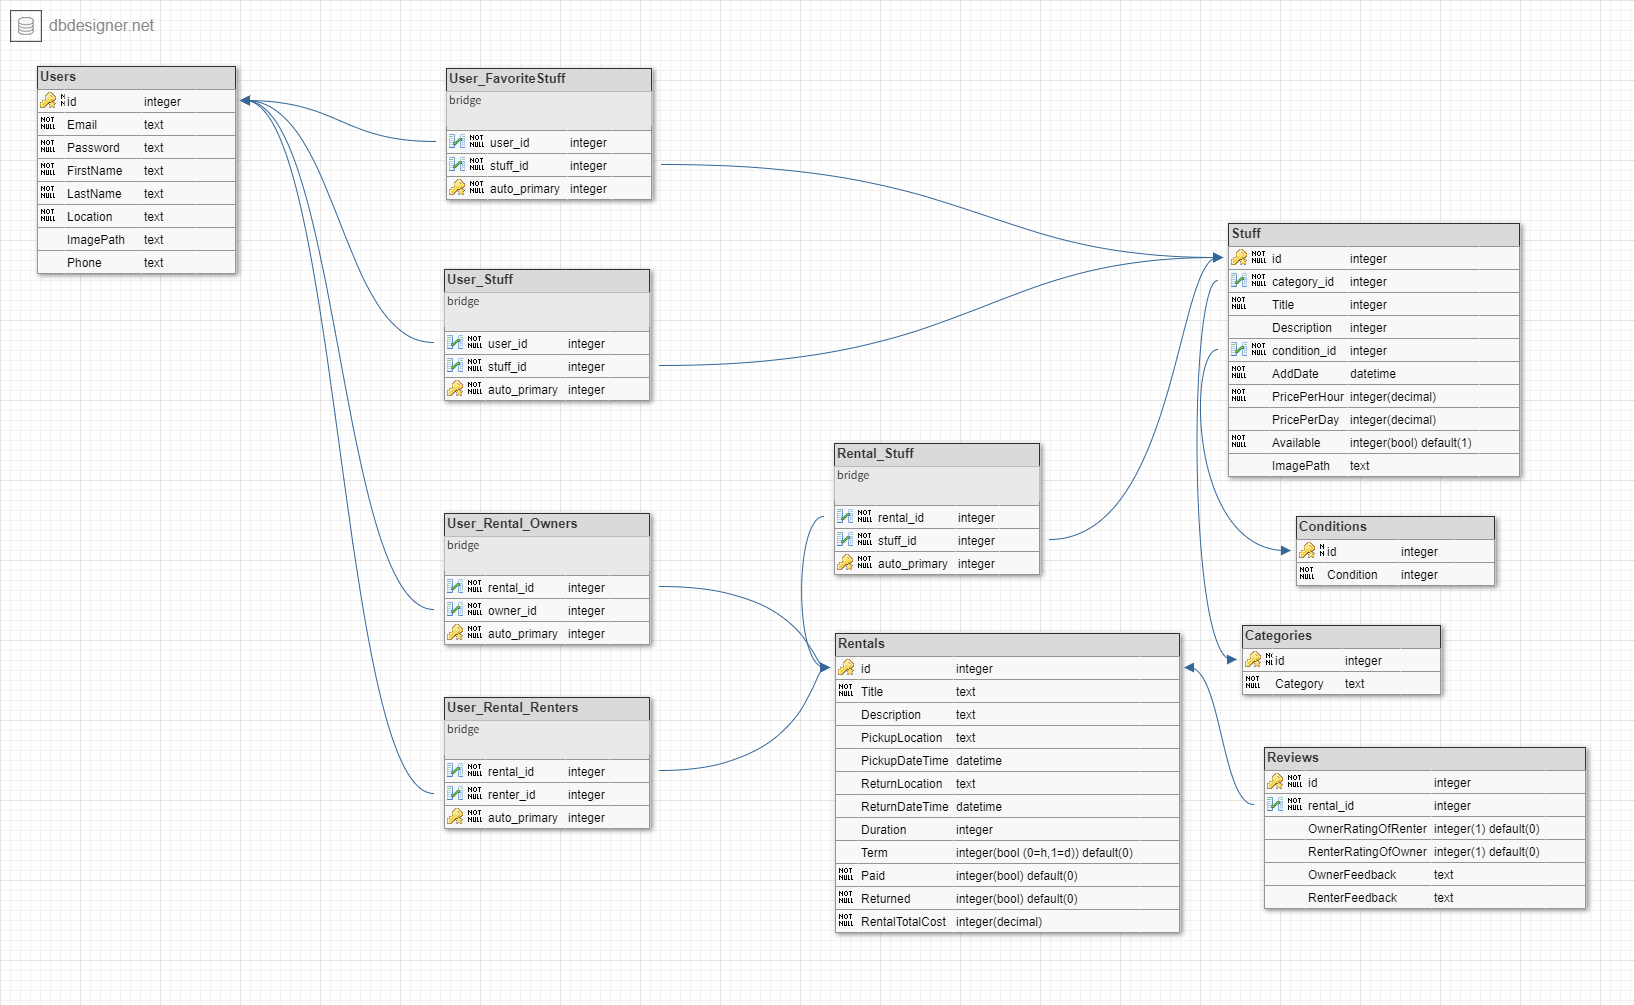
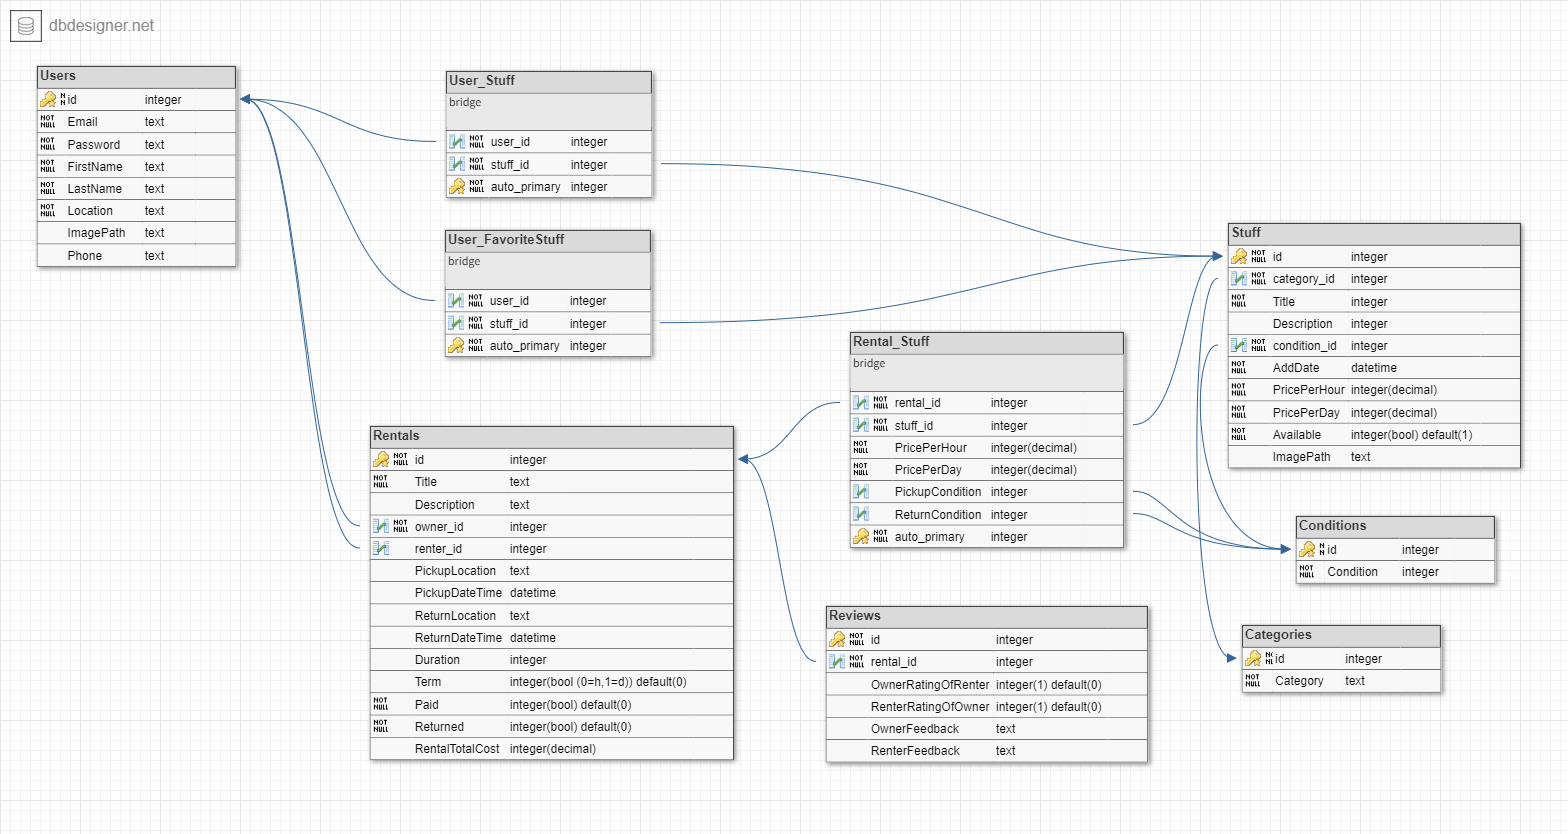
Update DB Design / Schema.

diff --git a/data/migrations/20200226204745_umts.js b/data/migrations/20200226204745_umts.js
@@ -56,6 +56,20 @@ exports.up = function(knex) {
       tbl.text('Title')
         .notNullable();
       tbl.text('Description');
+      tbl.integer('owner_id')
+        .notNullable()
+        .unsigned()
+        .references('Users.id')
+        // .onUpdate('CASCADE')
+        // .onDelete('CASCADE')
+        ;
+      tbl.integer('renter_id')
+        .notNullable()
+        .unsigned()
+        .references('Users.id')
+        // .onUpdate('CASCADE')
+        // .onDelete('CASCADE')
+        ;
       tbl.text('PickupLocation');
       tbl.datetime('PickupDateTime');
       tbl.text('ReturnLocation');
@@ -134,52 +148,18 @@ exports.up = function(knex) {
       tbl.decimal('PricePerDay')
         .notNullable();
       tbl.integer('PickupCondition')
-        .notNullable()
         .unsigned()
         .references('Conditions.id');
       tbl.integer('ReturnCondition')
-        .notNullable()
         .unsigned()
         .references('Conditions.id');
       tbl.primary(['rental_id', 'stuff_id']);
-    })
-    .createTable('User_Rental_Owners', tbl => {
-      tbl.integer('rental_id')
-        .notNullable()
-        .unsigned()
-        .references('Rentals.id')
-        .onUpdate('CASCADE')
-        .onDelete('CASCADE');
-      tbl.integer('owner_id')
-        .notNullable()
-        .unsigned()
-        .references('Users.id')
-        .onUpdate('CASCADE')
-        .onDelete('CASCADE');
-      tbl.primary(['rental_id', 'owner_id']);
-    })
-    .createTable('User_Rental_Renters', tbl => {
-      tbl.integer('rental_id')
-        .notNullable()
-        .unsigned()
-        .references('Rentals.id')
-        .onUpdate('CASCADE')
-        .onDelete('CASCADE');
-      tbl.integer('renter_id')
-        .notNullable()
-        .unsigned()
-        .references('Users.id')
-        .onUpdate('CASCADE')
-        .onDelete('CASCADE');
-      tbl.primary(['rental_id', 'renter_id']);
     })
     ;
 };
 
 exports.down = function(knex) {
   return knex.schema
-    .dropTableIfExists('User_Rental_Renters')
-    .dropTableIfExists('User_Rental_Owners')
     .dropTableIfExists('Rental_Stuff')
     .dropTableIfExists('User_FavoriteStuff')
     .dropTableIfExists('User_Stuff')
